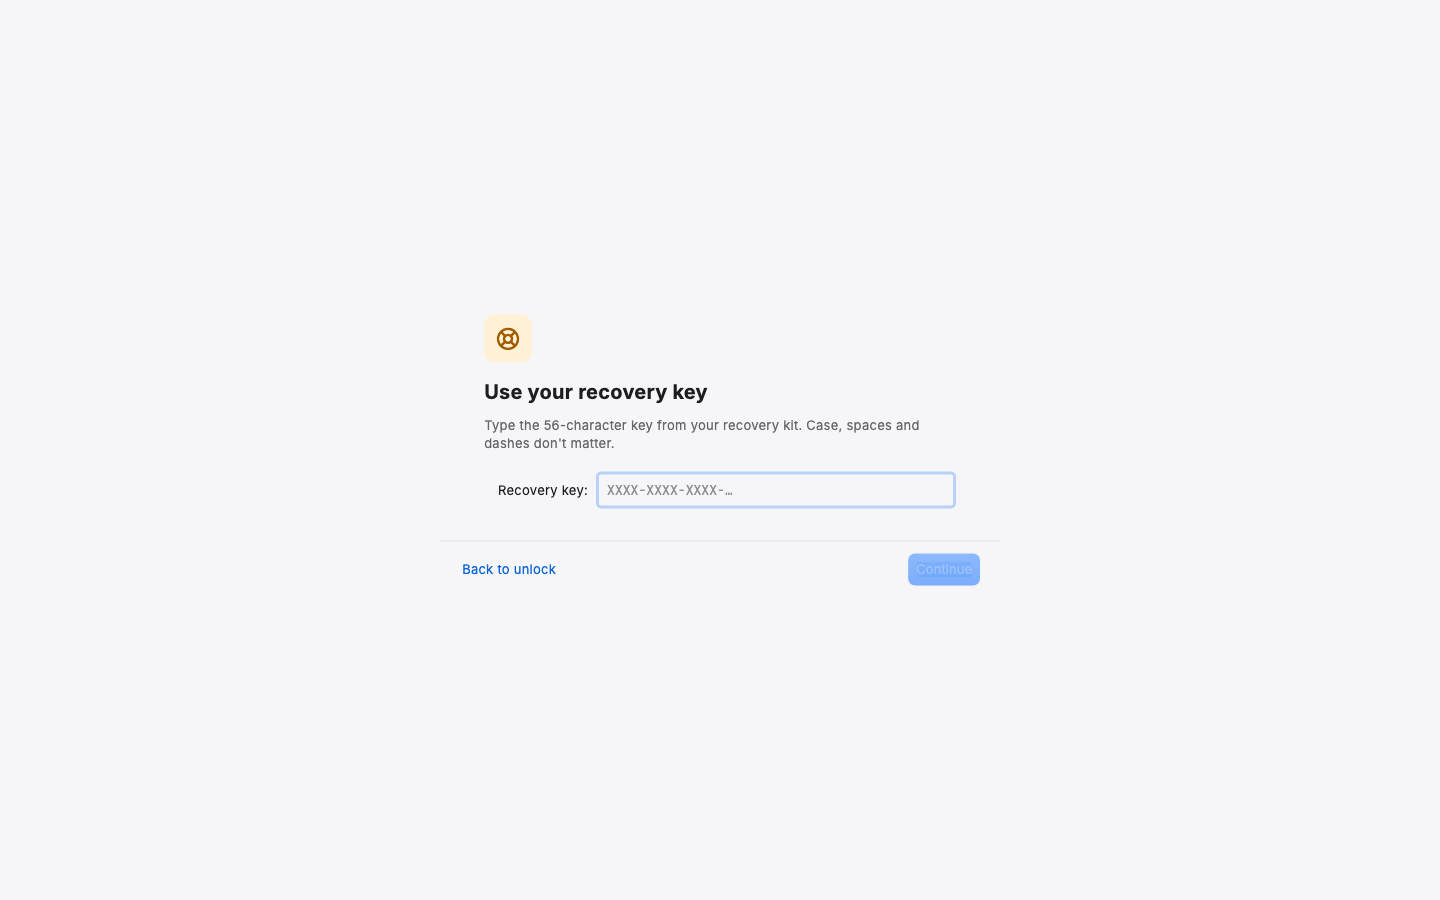
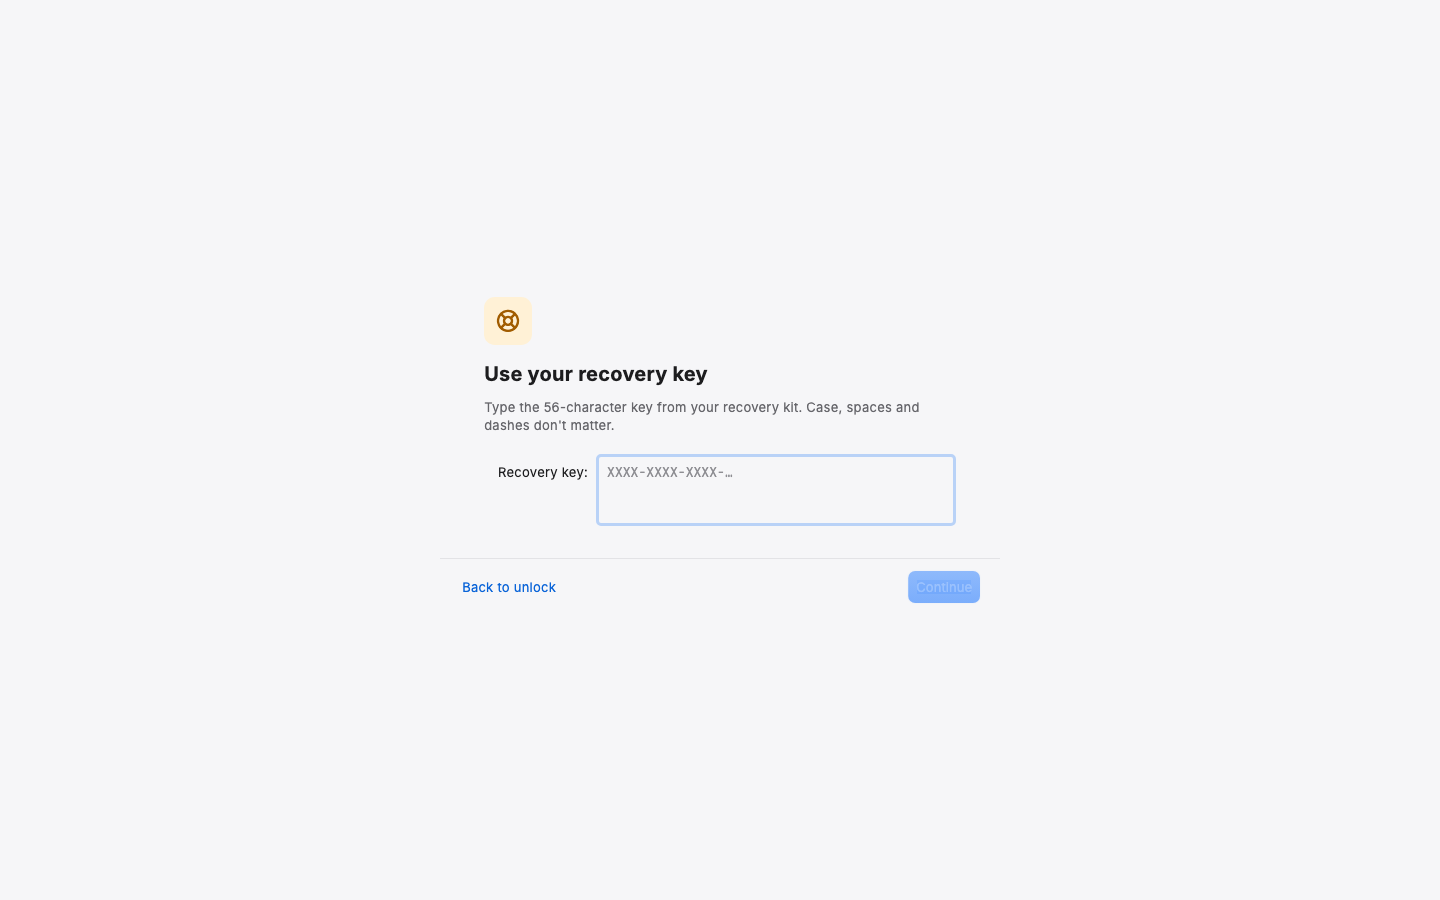
Desktop UI · Multi-line recovery key field
The recover view's key field is now three wrapping lines of JetBrains
Mono, so the whole 69-character key shows without scrolling, with its
label lined up on the first line. DesktopTextField gains autocorrect
(off here) and makes Return submit in a multi-line field that has
onSubmitted (plain text input with Done). Pasted line breaks and spaces
are kept in the field and ignored by the existing parser.

Changed region(s): [[0.3125, 0.3111, 0.6875, 0.6844], [0.3125, 0.6222, 0.375, 0.6533]]

diff --git a/test/recover_test.dart b/test/recover_test.dart
@@ -2,6 +2,7 @@ import 'dart:io';
 
 import 'package:devvault/app/layout.dart';
 import 'package:devvault/app/routes.dart';
+import 'package:devvault/app/theme.dart' show AppText;
 import 'package:devvault/data/vault_session.dart';
 import 'package:flutter/material.dart';
 import 'package:flutter_test/flutter_test.dart';
@@ -30,19 +31,19 @@ void main() {
     await tester.pumpAndSettle();
   }
 
-  /// Presses [button], then alternates real time and frames until [until]
-  /// shows up. The work behind the button does real file I/O and runs
-  /// Argon2id on an isolate.
-  Future<void> press(
+  /// Does [action], then alternates real time and frames until [until]
+  /// shows up. The work behind it does real file I/O and runs Argon2id on
+  /// an isolate.
+  Future<void> act(
     WidgetTester tester,
-    String button, {
+    Future<void> Function() action, {
     required Finder until,
   }) async {
     // Rebuild first: typing only marks the field dirty, and the button is
-    // enabled by the next frame. Tapping inside runAsync runs the handler
+    // enabled by the next frame. Acting inside runAsync runs the handler
     // in the real zone, so its file I/O completes on its own.
     await tester.pump();
-    await tester.runAsync(() => tester.tap(find.text(button)));
+    await tester.runAsync(action);
     for (var i = 0; i < 200 && until.evaluate().isEmpty; i++) {
       await tester.runAsync(
         () => Future<void>.delayed(const Duration(milliseconds: 10)),
@@ -52,9 +53,117 @@ void main() {
     await tester.pumpAndSettle();
   }
 
+  /// Presses [button], then waits for [until] as [act] does.
+  Future<void> press(
+    WidgetTester tester,
+    String button, {
+    required Finder until,
+  }) => act(tester, () => tester.tap(find.text(button)), until: until);
+
+  /// Presses Return in the focused field, then waits for [until].
+  Future<void> pressReturn(WidgetTester tester, {required Finder until}) => act(
+    tester,
+    () => tester.testTextInput.receiveAction(TextInputAction.done),
+    until: until,
+  );
+
+  /// No text on screen (labels, messages, toasts) holds any part of [key].
+  void expectKeyNotShown(WidgetTester tester, String key) {
+    for (final text in tester.widgetList<RichText>(find.byType(RichText))) {
+      final plain = text.text.toPlainText();
+      for (final group in key.split('-')) {
+        expect(plain.contains(group), isFalse, reason: 'shows "$plain"');
+      }
+    }
+  }
+
   String location(WidgetTester tester) =>
       GoRouter.of(tester.element(find.byType(Scaffold).first)).state.uri
           .toString();
+
+  group('desktop key field', () {
+    testWidgets('wraps the whole key over a few lines', (tester) async {
+      await openRecover(tester, AppLayout.desktop);
+      final field = tester.widget<EditableText>(find.byType(EditableText));
+      expect(field.maxLines, 3);
+      expect(field.minLines, 3);
+      expect(field.style.fontFamily, AppText.monoFamily);
+      expect(field.autocorrect, isFalse);
+      expect(field.enableSuggestions, isFalse);
+      expect(field.textInputAction, TextInputAction.done);
+
+      await tester.enterText(find.byType(EditableText), recoveryKey);
+      await tester.pump();
+      // Two lines of text, nothing scrolled out of sight.
+      final editable = tester
+          .state<EditableTextState>(find.byType(EditableText))
+          .renderEditable;
+      final lines = {
+        for (final box in editable.getBoxesForSelection(
+          TextSelection(baseOffset: 0, extentOffset: recoveryKey.length),
+        ))
+          box.top,
+      };
+      expect(lines, hasLength(2));
+      final scroll = tester.state<ScrollableState>(
+        find.descendant(
+          of: find.byType(EditableText),
+          matching: find.byType(Scrollable),
+        ),
+      );
+      expect(scroll.position.maxScrollExtent, 0);
+    });
+
+    testWidgets('a pasted key with line breaks recovers on Return', (
+      tester,
+    ) async {
+      await openRecover(tester, AppLayout.desktop);
+      // As copied from the recovery kit PDF: two rows of seven groups,
+      // double spaces between groups, a line break between rows.
+      final groups = recoveryKey.split('-');
+      final pasted =
+          '${groups.take(7).join('  ')}\n${groups.skip(7).join('  ')}\n';
+
+      // A typo first: the message names no part of the key.
+      final typo = pasted.replaceRange(0, 1, pasted[0] == 'A' ? 'B' : 'A');
+      await tester.enterText(find.byType(EditableText), typo);
+      final typoError = find.text(
+        'This recovery key has a typo. Check each group.',
+      );
+      await pressReturn(tester, until: typoError);
+      expect(typoError, findsOneWidget);
+      expectKeyNotShown(tester, recoveryKey);
+      expect(appContainer(tester).read(vaultSessionProvider), isA<Locked>());
+
+      await tester.enterText(find.byType(EditableText), pasted);
+      expect(
+        tester.widget<EditableText>(find.byType(EditableText)).controller.text,
+        pasted,
+        reason: 'the field keeps what was pasted, line breaks and all',
+      );
+      final stepTwo = find.text('Choose a new master password');
+      await pressReturn(tester, until: stepTwo);
+      expect(stepTwo, findsOneWidget);
+      expect(appContainer(tester).read(vaultSessionProvider), isA<Unlocked>());
+      expectKeyNotShown(tester, recoveryKey);
+      for (final field in tester.widgetList<EditableText>(
+        find.byType(EditableText),
+      )) {
+        expect(field.controller.text, isEmpty);
+      }
+
+      final fields = find.byType(EditableText);
+      await tester.enterText(fields.at(0), 'a brand new password');
+      await tester.enterText(fields.at(1), 'a brand new password');
+      await pressReturn(tester, until: find.text('New master password set'));
+      expect(location(tester), Routes.vault());
+      expectNoSecretInToasts(tester, [
+        'a brand new password',
+        recoveryKey,
+        ...groups,
+      ]);
+    });
+  });
 
   for (final layout in AppLayout.values) {
     group(layout.name, () {

diff --git a/lib/shared/desktop/desktop_text_field.dart b/lib/shared/desktop/desktop_text_field.dart
@@ -6,14 +6,18 @@ import '../../app/theme.dart' show AppText;
 import 'desktop_metrics.dart';
 import 'desktop_theme.dart';
 
-/// A single-line text field drawn by the desktop kit: `MacosTextField`,
-/// Fluent's `TextBox`, or a Yaru-themed `TextField`.
+/// A text field drawn by the desktop kit: `MacosTextField`, Fluent's
+/// `TextBox`, or a Yaru-themed `TextField`.
 ///
 /// With [obscureText] it is a secure field: masked, with autocorrect and
 /// suggestions off. (Fluent's `PasswordBox` can't turn those off, so
 /// Windows uses a masked `TextBox`.)
 ///
 /// [mono] sets the text in JetBrains Mono, for keys, IDs and file names.
+///
+/// With [maxLines] above one it is a text area, where Return types a new
+/// line, unless it has [onSubmitted]: then the text only wraps, it is still
+/// one value (a recovery key), and Return submits it.
 const _macosRadius = BorderRadius.all(
   Radius.circular(DesktopMetrics.fieldRadius),
 );
@@ -33,6 +37,7 @@ class DesktopTextField extends StatelessWidget {
     this.suffix,
     this.maxLines = 1,
     this.minLines,
+    this.autocorrect = true,
   });
 
   final TextEditingController? controller;
@@ -53,9 +58,20 @@ class DesktopTextField extends StatelessWidget {
   final int maxLines;
   final int? minLines;
 
+  /// False for keys and codes: no autocorrect or suggestions. A secure
+  /// field never has them.
+  final bool autocorrect;
+
   @override
   Widget build(BuildContext context) {
     final colors = context.desktopColors;
+    final corrects = autocorrect && !obscureText;
+    // A multi-line field defaults to the multiline input type and the
+    // newline action, so Return types a new line. Plain text with Done
+    // makes Return submit instead; the text still wraps.
+    final wrapsOneValue = maxLines > 1 && onSubmitted != null;
+    final keyboardType = wrapsOneValue ? TextInputType.text : null;
+    final textInputAction = wrapsOneValue ? TextInputAction.done : null;
     final style = mono ? AppText.mono(context, fontSize: 12.5) : null;
     final monoStyle = style?.copyWith(color: colors.text);
     return switch (context.desktopKit) {
@@ -83,8 +99,10 @@ class DesktopTextField extends StatelessWidget {
         obscureText: obscureText,
         enabled: enabled,
         autofocus: autofocus,
-        autocorrect: !obscureText,
-        enableSuggestions: !obscureText,
+        autocorrect: corrects,
+        enableSuggestions: corrects,
+        keyboardType: keyboardType,
+        textInputAction: textInputAction,
         style:
             monoStyle ??
             TextStyle(fontSize: DesktopMetrics.bodySize, color: colors.text),
@@ -100,8 +118,10 @@ class DesktopTextField extends StatelessWidget {
         onSubmitted: onSubmitted,
         obscureText: obscureText,
         enabled: enabled,
-        autocorrect: !obscureText,
-        enableSuggestions: !obscureText,
+        autocorrect: corrects,
+        enableSuggestions: corrects,
+        keyboardType: keyboardType,
+        textInputAction: textInputAction,
         autofocus: autofocus,
         style: monoStyle,
         suffix: suffix,
@@ -116,8 +136,10 @@ class DesktopTextField extends StatelessWidget {
         obscureText: obscureText,
         enabled: enabled,
         autofocus: autofocus,
-        autocorrect: !obscureText,
-        enableSuggestions: !obscureText,
+        autocorrect: corrects,
+        enableSuggestions: corrects,
+        keyboardType: keyboardType,
+        textInputAction: textInputAction,
         style: monoStyle,
         maxLines: maxLines,
         minLines: minLines,

diff --git a/test/desktop_controls_test.dart b/test/desktop_controls_test.dart
@@ -249,6 +249,53 @@ void main() {
         expect(field.obscureText, isTrue);
         expect(field.autocorrect, isFalse);
       });
+
+      testWidgets('a wrapping field submits on Return', (tester) async {
+        final submitted = <String>[];
+        await pumpDesktop(
+          tester,
+          kit,
+          SizedBox(
+            width: 240,
+            child: DesktopTextField(
+              mono: true,
+              maxLines: 3,
+              minLines: 3,
+              autocorrect: false,
+              onSubmitted: submitted.add,
+            ),
+          ),
+        );
+        final field = tester.widget<EditableText>(find.byType(EditableText));
+        expect(field.maxLines, 3);
+        expect(field.minLines, 3);
+        expect(field.autocorrect, isFalse);
+        expect(field.enableSuggestions, isFalse);
+        // Plain text with Done: the platform submits on Return instead of
+        // typing a new line.
+        expect(field.keyboardType, TextInputType.text);
+        expect(field.textInputAction, TextInputAction.done);
+
+        await tester.enterText(find.byType(EditableText), 'ABCD-EFGH\nJKMN');
+        await tester.testTextInput.receiveAction(TextInputAction.done);
+        await tester.pump();
+        expect(submitted, ['ABCD-EFGH\nJKMN']);
+      });
+
+      testWidgets('a text area types a new line on Return', (tester) async {
+        await pumpDesktop(
+          tester,
+          kit,
+          const SizedBox(
+            width: 240,
+            child: DesktopTextField(maxLines: 4, minLines: 2),
+          ),
+        );
+        final field = tester.widget<EditableText>(find.byType(EditableText));
+        expect(field.keyboardType, TextInputType.multiline);
+        expect(field.textInputAction, isNot(TextInputAction.done));
+        expect(field.autocorrect, isTrue);
+      });
     });
   }
 }

diff --git a/lib/shared/desktop/desktop_form.dart b/lib/shared/desktop/desktop_form.dart
@@ -53,12 +53,17 @@ class DesktopFormRow extends StatelessWidget {
     required this.child,
     this.note,
     this.error,
+    this.multiline = false,
   });
 
   final String label;
   final Widget child;
   final String? note;
   final String? error;
+
+  /// The control is taller than one line (a text area): the label lines up
+  /// with its first line instead of its middle.
+  final bool multiline;
 
   @override
   Widget build(BuildContext context) {
@@ -69,6 +74,10 @@ class DesktopFormRow extends StatelessWidget {
     final error = this.error;
     final note = error ?? this.note;
     final row = Row(
+      crossAxisAlignment: multiline
+          ? CrossAxisAlignment.baseline
+          : CrossAxisAlignment.center,
+      textBaseline: TextBaseline.alphabetic,
       children: [
         // macos_ui keeps room for the focus ring around a text field, so a
         // field is taller than a pop-up of the same visible height. Every

diff --git a/lib/features/unlock/desktop_recover_view.dart b/lib/features/unlock/desktop_recover_view.dart
@@ -67,12 +67,18 @@ class DesktopRecoverView extends StatelessWidget {
           children: [
             DesktopFormRow(
               label: 'Recovery key',
+              multiline: true,
               child: Semantics(
                 label: 'Recovery key',
+                // Wraps, so the whole key (69 characters with its dashes)
+                // can be read back; Return still submits.
                 child: DesktopTextField(
                   controller: recoveryKey,
                   placeholder: 'XXXX-XXXX-XXXX-…',
                   mono: true,
+                  maxLines: 3,
+                  minLines: 3,
+                  autocorrect: false,
                   autofocus: true,
                   enabled: !busy,
                   onChanged: (_) => onChanged(),

diff --git a/test/screenshots/unlock_shots_test.dart b/test/screenshots/unlock_shots_test.dart
@@ -54,6 +54,14 @@ void main() {
     vault: TestVault.locked,
     brightness: Brightness.light,
   );
+  // The whole key fits in the field, wrapped, without scrolling.
+  shot(
+    'N00-recover-key',
+    Routes.recover,
+    vault: TestVault.locked,
+    interact: (tester) =>
+        tester.enterText(find.byType(EditableText), lastTestRecoveryKey!),
+  );
 }
 
 /// Face ID is on and the user dismissed the automatic prompt: the screen

diff --git a/docs/design/desktop.md b/docs/design/desktop.md
@@ -155,7 +155,9 @@ through `package:devvault/shared/desktop_ui.dart`:
 - `DesktopTheme` goes in `MaterialApp.builder` and picks the kit for the
   OS (`DesktopKit`), so menus the kits push as routes are themed too.
 - `DesktopColors` and `DesktopMetrics` hold the tokens and sizes above.
-- Controls: `DesktopTextField` (also the secure field), `DesktopComboBox`,
+- Controls: `DesktopTextField` (also the secure field, and a text area;
+  a multi-line field with `onSubmitted` wraps one value, like the recovery
+  key, and Return submits it), `DesktopComboBox`,
   `DesktopPopup`, `DesktopTokenField`, `DesktopButton`, `DesktopSegmented`,
   `DesktopSwitch`, `DesktopCheckbox`, `DesktopIconButton`,
   `DesktopSearchField`, and `DesktopForm` / `DesktopFormRow` for sheet
